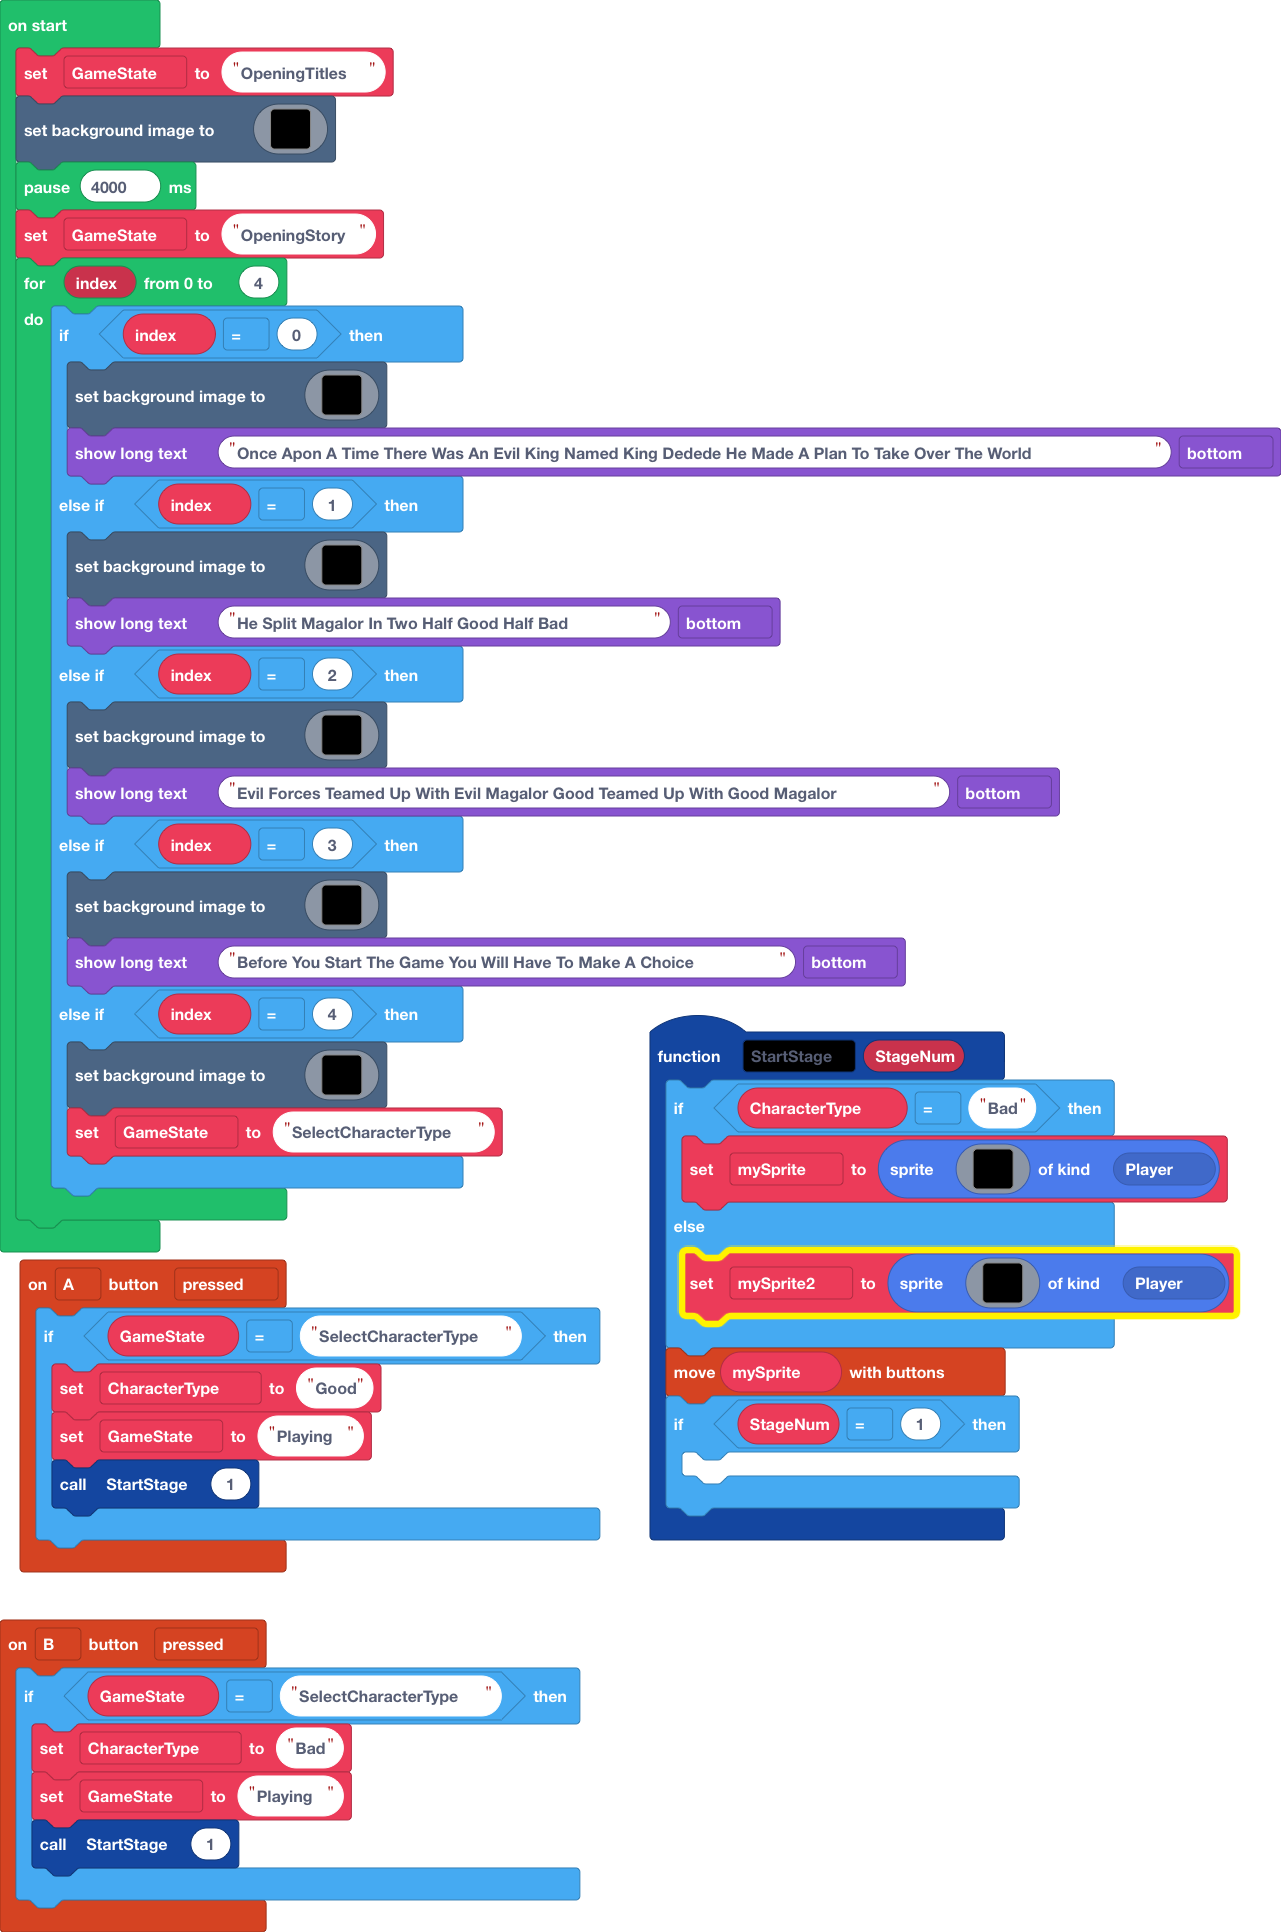
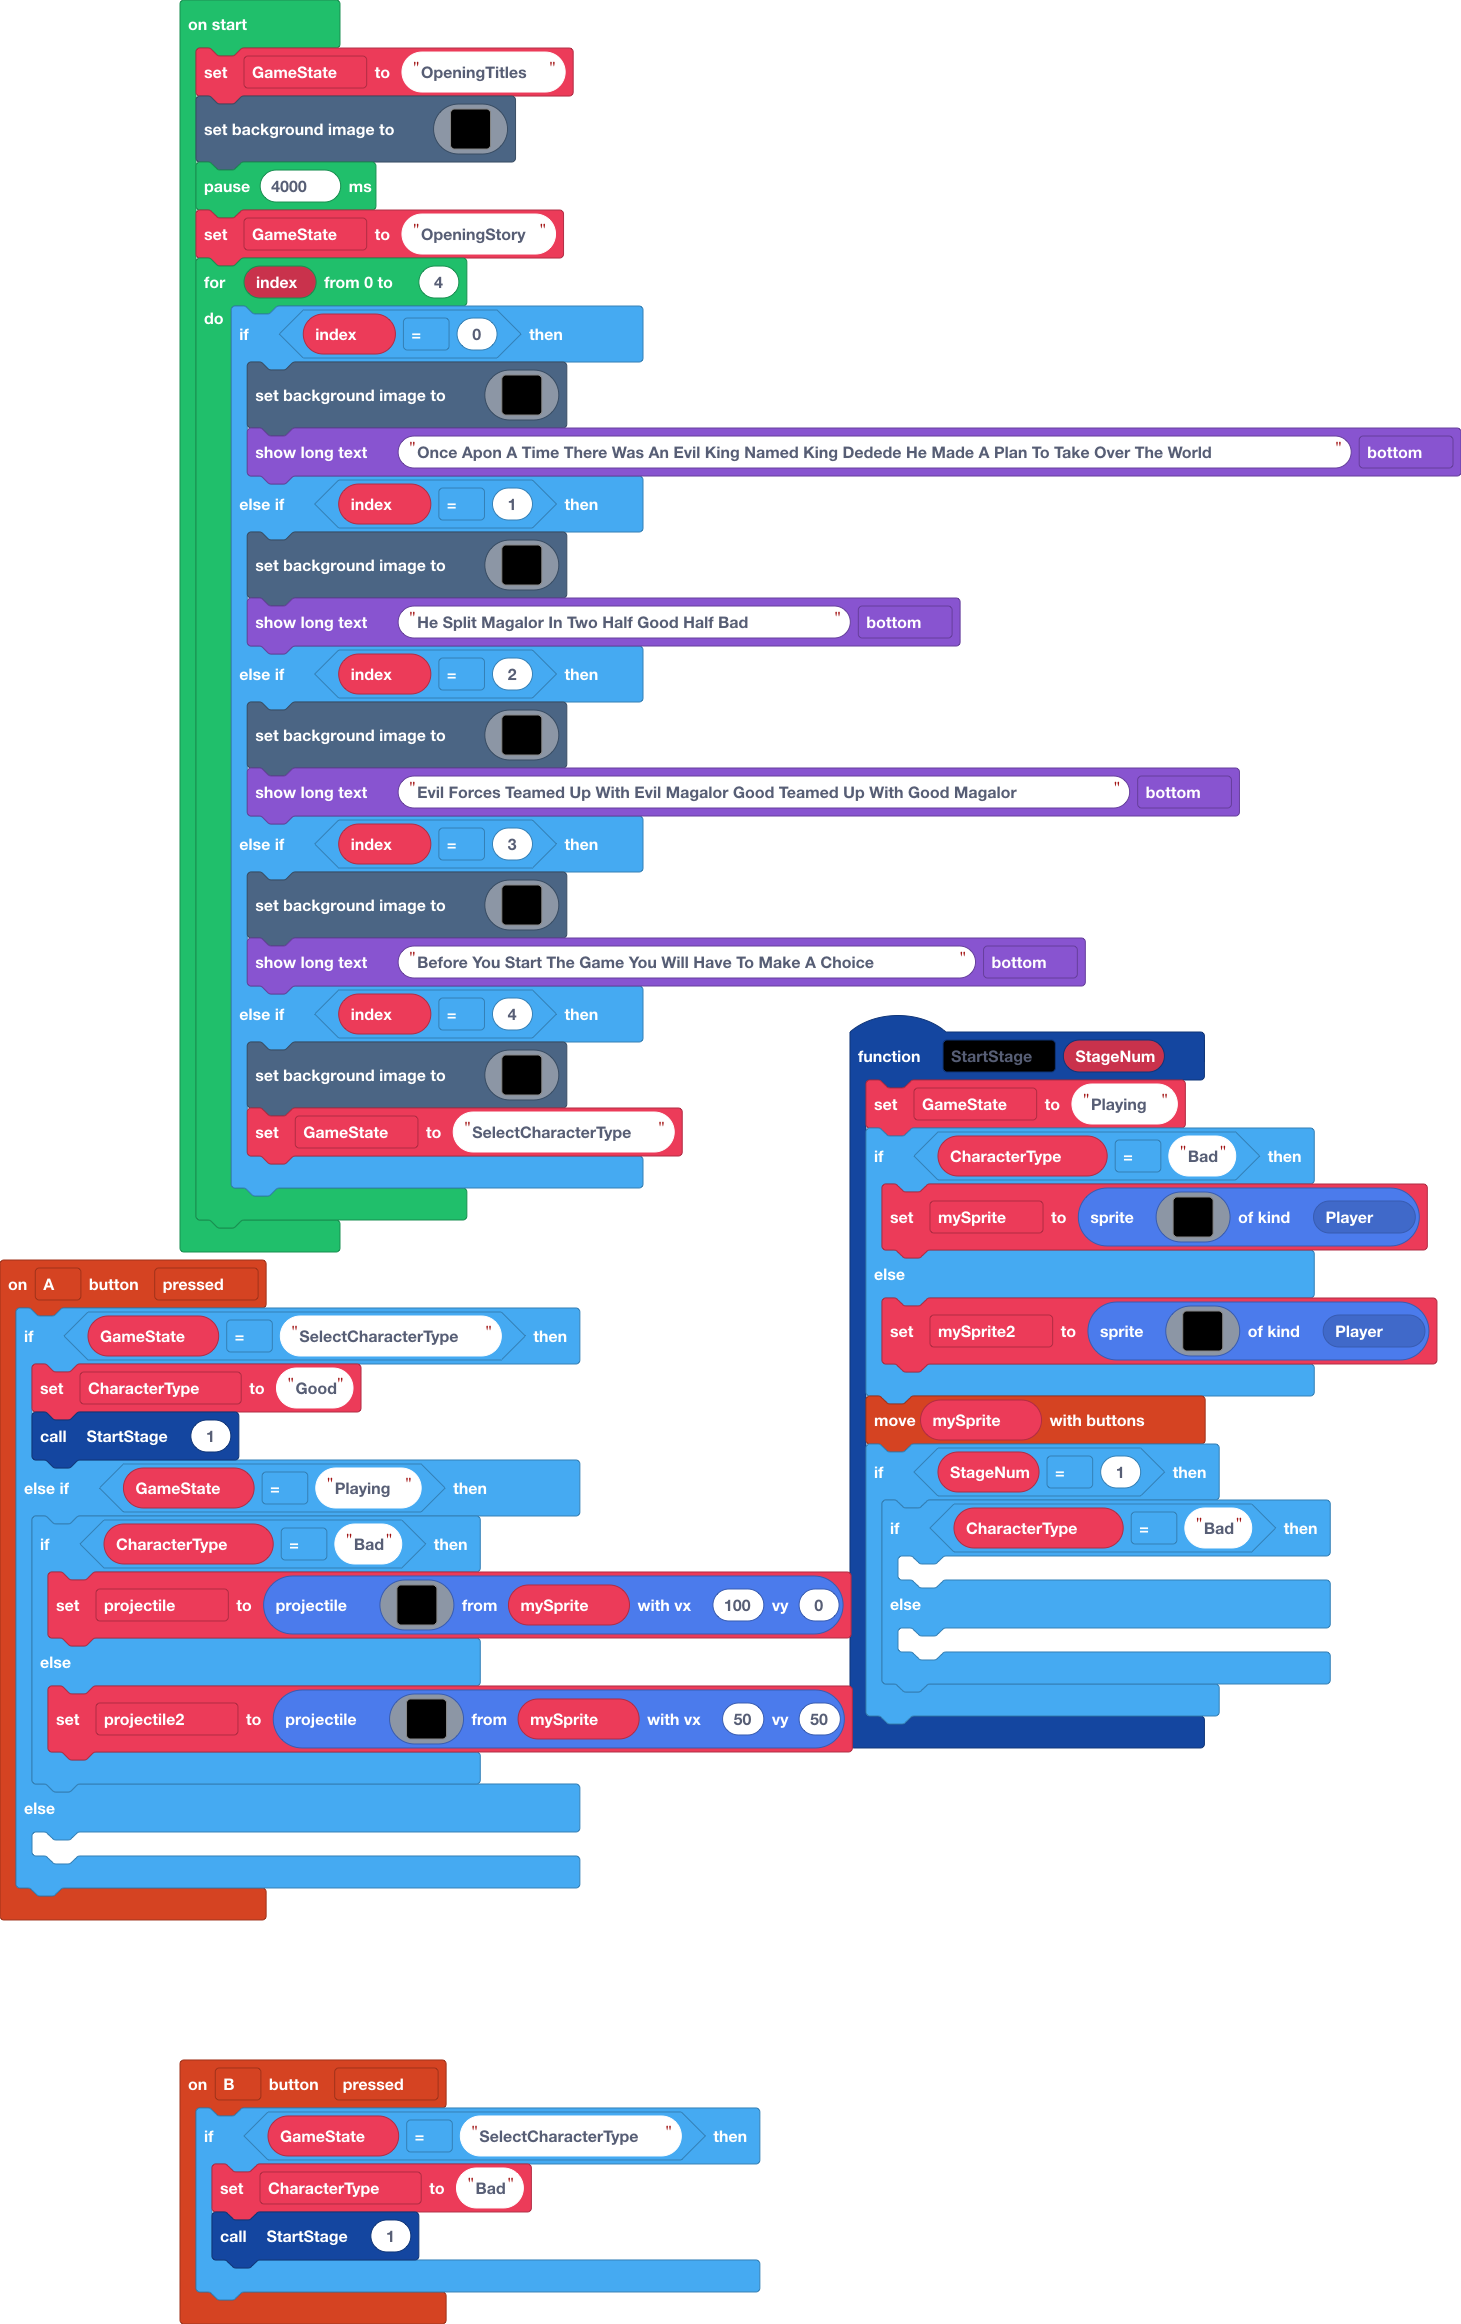
adding good/bad projectiles

diff --git a/main.ts b/main.ts
@@ -1,18 +1,59 @@
 controller.B.onEvent(ControllerButtonEvent.Pressed, function () {
     if (GameState == "SelectCharacterType") {
         CharacterType = "Bad"
-        GameState = "Playing"
         StartStage(1)
     }
 })
 controller.A.onEvent(ControllerButtonEvent.Pressed, function () {
     if (GameState == "SelectCharacterType") {
         CharacterType = "Good"
-        GameState = "Playing"
         StartStage(1)
+    } else if (GameState == "Playing") {
+        if (CharacterType == "Bad") {
+            projectile = sprites.createProjectileFromSprite(img`
+                . . . . . . . . . . . . . . . . 
+                . . . . . . . . . . . . . . . . 
+                . . . . . . . 1 1 3 . . . . . . 
+                . . . . . . 1 3 . 3 3 . . . . . 
+                . . . . . . 1 . . . 3 2 2 3 . . 
+                . . . . . 1 3 . . . 2 2 1 3 3 . 
+                . . . . . 1 3 . 2 2 3 1 1 1 3 . 
+                . . 2 2 2 1 3 3 3 3 3 1 1 1 3 . 
+                . . 1 1 1 1 3 1 1 1 1 1 1 1 3 . 
+                . . 2 2 2 1 3 3 3 3 3 1 1 1 3 . 
+                . . . . . 1 3 . 2 2 3 1 1 1 3 . 
+                . . . . . 1 3 . . . 2 2 1 3 3 . 
+                . . . . . . 1 . . . 3 2 2 3 . . 
+                . . . . . . 1 3 . 3 3 . . . . . 
+                . . . . . . . 1 1 3 . . . . . . 
+                . . . . . . . . . . . . . . . . 
+                `, mySprite, 100, 0)
+        } else {
+            projectile2 = sprites.createProjectileFromSprite(img`
+                . . . . . . . . . . . . . . . . 
+                . . . . . . . . . . . . . . . . 
+                . . . . . . . . . . . . . . . . 
+                . . . . . . . . . . . . . . . . 
+                . . . . . . . . . . . . . . . . 
+                . . . . . . . . . . . . . . . . 
+                . . . . . . . . . . . . . . . . 
+                . . . . . . . . . . . . . . . . 
+                . . . . . . . . . . . . . . . . 
+                . . . . . . . . . . . . . . . . 
+                . . . . . . . . . . . . . . . . 
+                . . . . . . . . . . . . . . . . 
+                . . . . . . . . . . . . . . . . 
+                . . . . . . . . . . . . . . . . 
+                . . . . . . . . . . . . . . . . 
+                . . . . . . . . . . . . . . . . 
+                `, mySprite, 50, 50)
+        }
+    } else {
+    	
     }
 })
 function StartStage (StageNum: number) {
+    GameState = "Playing"
     if (CharacterType == "Bad") {
         mySprite = sprites.create(assets.image`Bad Magalor`, SpriteKind.Player)
     } else {
@@ -20,11 +61,17 @@ function StartStage (StageNum: number) {
     }
     controller.moveSprite(mySprite)
     if (StageNum == 1) {
-    	
+        if (CharacterType == "Bad") {
+        	
+        } else {
+        	
+        }
     }
 }
 let mySprite2: Sprite = null
+let projectile2: Sprite = null
 let mySprite: Sprite = null
+let projectile: Sprite = null
 let CharacterType = ""
 let GameState = ""
 GameState = "OpeningTitles"
